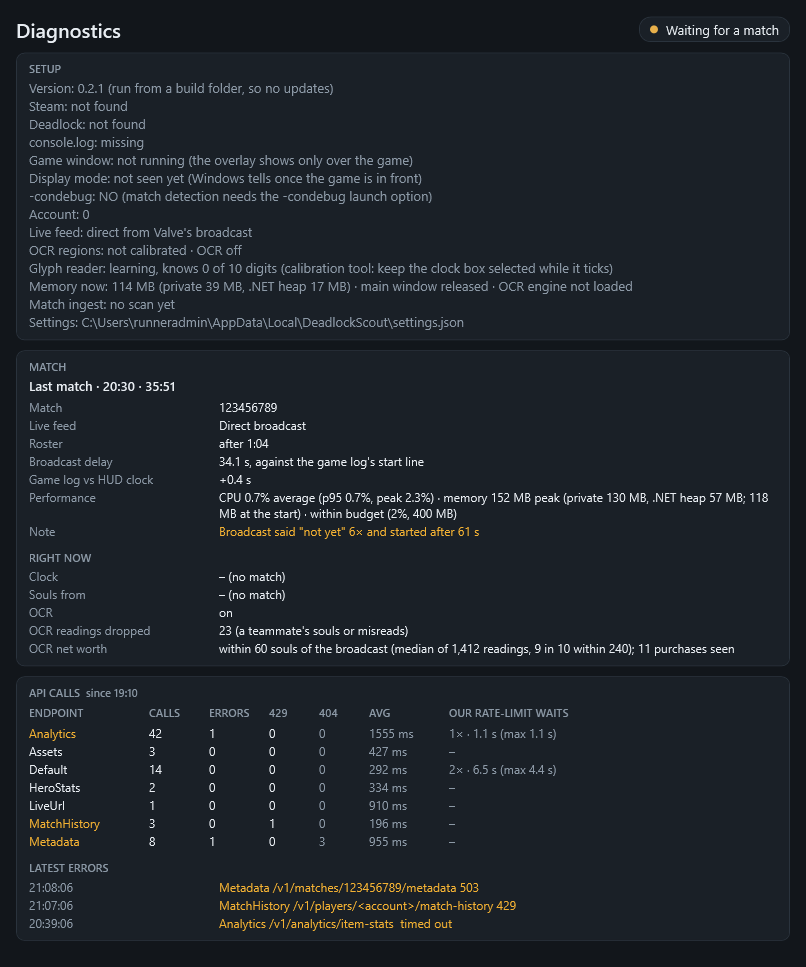
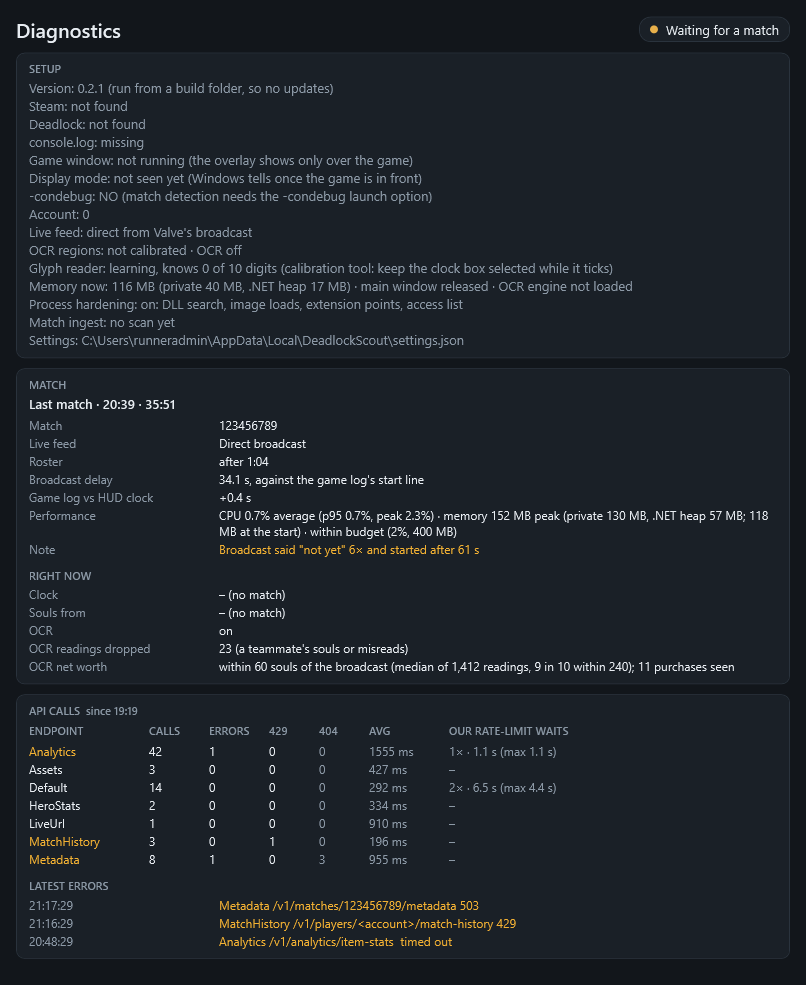
Security: lock the app's own process down; hold the checked update until it runs (#129)
* Security: lock the app's own process down; hold the checked update until it runs

At start-up (App/Interop/ProcessHardening), each step on its own and logged:
- DLLs load from the app's folder and System32 only (SetDefaultDllDirectories);
- image-load policy: no DLLs from network shares or with a low integrity label,
  System32 copies first;
- extension-point policy: no AppInit DLLs, global hooks or Winsock layered
  providers of other programs in the process;
- an access list (Core/Security/ProcessDacl): other unelevated programs may see,
  wait for and end the app, but not read or write its memory, start threads,
  copy handles or change the list (an owner-rights entry takes away the owner's
  implicit WRITE_DAC). The API key in memory is out of their reach.
Diagnostics shows "Process hardening: on: ..."; security.hardenProcess turns it
off from the next start. The screenshot run applies it too, so the Windows
runner shows it holds and the windows still render.

The downloaded update is now hash-checked through a handle that stays open,
shared for reading only, until the installer has started (HeldInstaller), so
no other program can swap the file between the check and the start.

Roadmap line ticked, with per-machine install proposed to stay per-user for 1.0.

Claude-Session: https://claude.ai/code/session_01LSDkBn23Na5vMSKWLtGadZ

* Update app screenshots

* Install stays per-user only: the owner's decision, in the roadmap and the setup script
[…]

diff --git a/src/DeadlockScout.App/Interop/ProcessHardening.cs b/src/DeadlockScout.App/Interop/ProcessHardening.cs
@@ -1,0 +1,105 @@
+using System.Runtime.InteropServices;
+using System.Security.Principal;
+using DeadlockScout.Core.Security;
+using Microsoft.Extensions.Logging;
+
+namespace DeadlockScout.App.Interop;
+
+/// <summary>
+/// Locks the app's own process down at start-up (0.3, "Ready for 1.0"). Nothing here touches the game: it is the app
+/// protecting itself from other programs.
+/// <list type="bullet">
+/// <item>DLLs load from the app's folder and System32 only, never the current folder or PATH;</item>
+/// <item>Windows' image-load policy: no DLLs from network shares or with a low integrity label, and a System32 copy of a
+/// DLL before any other;</item>
+/// <item>no legacy extension points in the process: AppInit DLLs, global window hooks and Winsock layered providers of
+/// other programs are not loaded into it;</item>
+/// <item>the process's access list (<see cref="ProcessDacl"/>): no other program reads or writes its memory or starts a
+/// thread in it.</item>
+/// </list>
+/// Each step stands alone: one that fails is logged and the rest still apply. <c>security.hardenProcess</c> turns all of
+/// it off (from the next start), for a tool that has to attach to the app.
+/// </summary>
+public static class ProcessHardening
+{
+    /// <summary>What was applied, for Diagnostics: "on: DLL search, image loads, extension points, access list".</summary>
+    public static string Status { get; private set; } = "not applied";
+
+    public static void Apply(bool enabled, ILogger log)
+    {
+        if (!OperatingSystem.IsWindows()) { Status = "not on Windows"; return; }
+        if (!enabled) { Status = "off (security.hardenProcess)"; log.LogInformation("Process hardening is off in settings"); return; }
+        var done = new List<string>();
+        var failed = new List<string>();
+        void Step(string name, Func<int> apply)
+        {
+            int error;
+            try { error = apply(); }
+            catch (Exception ex) { error = -1; log.LogWarning(ex, "Process hardening: {Step} threw", name); }
+            if (error == 0) done.Add(name);
+            else { failed.Add(name); log.LogWarning("Process hardening: {Step} could not be applied (error {Error})", name, error); }
+        }
+
+        Step("DLL search", () => SetDefaultDllDirectories(LoadLibrarySearchDefaultDirs) ? 0 : Marshal.GetLastWin32Error());
+        Step("image loads", () =>
+        {
+            var policy = ImageLoadNoRemote | ImageLoadNoLowLabel | ImageLoadPreferSystem32;
+            return SetProcessMitigationPolicy(ProcessImageLoadPolicy, ref policy, sizeof(uint)) ? 0 : Marshal.GetLastWin32Error();
+        });
+        Step("extension points", () =>
+        {
+            uint policy = 1; // DisableExtensionPoints
+            return SetProcessMitigationPolicy(ProcessExtensionPointDisablePolicy, ref policy, sizeof(uint)) ? 0 : Marshal.GetLastWin32Error();
+        });
+        Step("access list", ApplyDacl);
+
+        Status = failed.Count == 0 ? $"on: {string.Join(", ", done)}"
+            : done.Count == 0 ? $"failed: {string.Join(", ", failed)} (see the log)"
+            : $"on: {string.Join(", ", done)}; failed: {string.Join(", ", failed)} (see the log)";
+        log.LogInformation("Process hardening {Status}", Status);
+    }
+
+    private static int ApplyDacl()
+    {
+        string? sid;
+        using (var me = WindowsIdentity.GetCurrent()) sid = me.User?.Value;
+        if (!ConvertStringSecurityDescriptorToSecurityDescriptorW(ProcessDacl.Sddl(sid), SddlRevision1, out var sd, out _))
+            return Marshal.GetLastWin32Error();
+        try
+        {
+            if (!GetSecurityDescriptorDacl(sd, out bool present, out var dacl, out _) || !present) return Marshal.GetLastWin32Error() is var e and not 0 ? e : -2;
+            return (int)SetSecurityInfo(GetCurrentProcess(), SeKernelObject, DaclSecurityInformation | ProtectedDaclSecurityInformation,
+                IntPtr.Zero, IntPtr.Zero, dacl, IntPtr.Zero);
+        }
+        finally { LocalFree(sd); }
+    }
+
+    private const uint LoadLibrarySearchDefaultDirs = 0x0000_1000;
+    private const int ProcessExtensionPointDisablePolicy = 6;
+    private const int ProcessImageLoadPolicy = 10;
+    private const uint ImageLoadNoRemote = 0x1, ImageLoadNoLowLabel = 0x2, ImageLoadPreferSystem32 = 0x4;
+    private const uint SddlRevision1 = 1;
+    private const int SeKernelObject = 6;
+    private const uint DaclSecurityInformation = 0x4, ProtectedDaclSecurityInformation = 0x8000_0000;
+
+    [DllImport("kernel32.dll", SetLastError = true)]
+    private static extern bool SetDefaultDllDirectories(uint directoryFlags);
+
+    [DllImport("kernel32.dll", SetLastError = true)]
+    private static extern bool SetProcessMitigationPolicy(int policy, ref uint buffer, nuint length);
+
+    [DllImport("kernel32.dll")]
+    private static extern IntPtr GetCurrentProcess();
+
+    [DllImport("kernel32.dll")]
+    private static extern IntPtr LocalFree(IntPtr mem);
+
+    [DllImport("advapi32.dll", SetLastError = true, CharSet = CharSet.Unicode)]
+    private static extern bool ConvertStringSecurityDescriptorToSecurityDescriptorW(string sddl, uint revision, out IntPtr descriptor, out uint size);
+
+    [DllImport("advapi32.dll", SetLastError = true)]
+    private static extern bool GetSecurityDescriptorDacl(IntPtr descriptor, out bool present, out IntPtr dacl, out bool defaulted);
+
+    [DllImport("advapi32.dll")]
+    private static extern uint SetSecurityInfo(IntPtr handle, int objectType, uint securityInfo, IntPtr owner, IntPtr group, IntPtr dacl, IntPtr sacl);
+}

diff --git a/src/DeadlockScout.Api/Updates/UpdateClient.cs b/src/DeadlockScout.Api/Updates/UpdateClient.cs
@@ -51,10 +51,12 @@ public sealed class UpdateClient
     }
 
     /// <summary>
-    /// The offered installer saved in <paramref name="folder"/>, or null when it could not be fetched or does not match
-    /// the signed size and SHA-256 (then nothing is left behind). Never reads past the signed size.
+    /// The offered installer saved in <paramref name="folder"/> and held open, or null when it could not be fetched or
+    /// does not match the signed size and SHA-256 (then nothing is left behind). Never reads past the signed size. The
+    /// hash is checked through the same handle that is then kept: until it is disposed (after the installer has
+    /// started) no other program can write, rename or delete the file, so what runs is what was checked.
     /// </summary>
-    public async Task<string?> DownloadAsync(UpdateCheck offer, string folder, CancellationToken ct)
+    public async Task<HeldInstaller?> DownloadAsync(UpdateCheck offer, string folder, CancellationToken ct)
     {
         if (!offer.IsOffer) return null;
         var m = offer.Manifest!;
@@ -70,11 +72,20 @@ public sealed class UpdateClient
                 await using var target = File.Create(partial);
                 if (!await CopyCappedAsync(source, target, m.Size, ct).ConfigureAwait(false)) return null;
             }
-            bool matches;
-            await using (var check = File.OpenRead(partial)) matches = UpdatePolicy.InstallerMatches(m, check);
-            if (!matches) { _log.LogWarning("Update {Version}: the installer does not match the signed hash; discarded", m.Version); return null; }
             File.Move(partial, path, overwrite: true);
-            return path;
+            // Read only, shared for reading only: from here no one can change the file under the check.
+            var held = new FileStream(path, FileMode.Open, FileAccess.Read, FileShare.Read);
+            bool matches;
+            try { matches = UpdatePolicy.InstallerMatches(m, held); }
+            catch { held.Dispose(); File.Delete(path); throw; }
+            if (!matches)
+            {
+                held.Dispose();
+                File.Delete(path);
+                _log.LogWarning("Update {Version}: the installer does not match the signed hash; discarded", m.Version);
+                return null;
+            }
+            return new HeldInstaller(path, held);
         }
         finally
         {
@@ -117,4 +128,20 @@ public sealed class UpdateClient
         }
         return buffer.ToArray();
     }
+}
+
+/// <summary>A checked installer, held open so it cannot change until it has been started; dispose it after starting it.</summary>
+public sealed class HeldInstaller : IDisposable
+{
+    private readonly FileStream _handle;
+
+    public HeldInstaller(string path, FileStream handle)
+    {
+        Path = path;
+        _handle = handle;
+    }
+
+    public string Path { get; }
+
+    public void Dispose() => _handle.Dispose();
 }

diff --git a/src/DeadlockScout.Core/Security/ProcessDacl.cs b/src/DeadlockScout.Core/Security/ProcessDacl.cs
@@ -1,0 +1,49 @@
+namespace DeadlockScout.Core.Security;
+
+/// <summary>
+/// The access list DeadlockScout puts on its own process at start-up: other programs of the same Windows user may see
+/// that it runs, wait for it and end it (Task Manager, the installer), but not read or write its memory, start threads
+/// in it, copy its handles or change this list. That keeps the deadlock-api key in memory, and the app's code, out of
+/// reach of other unelevated programs. The "owner rights" entry matters: without it the process's owner (the user)
+/// could always rewrite the list and then open it for anything. An administrator with the debug privilege still can,
+/// as for every process. Pure, so tested; <c>App/Interop/ProcessHardening</c> applies it.
+/// </summary>
+public static class ProcessDacl
+{
+    public const uint Terminate = 0x0001;
+    public const uint CreateThread = 0x0002;
+    public const uint VmOperation = 0x0008;
+    public const uint VmRead = 0x0010;
+    public const uint VmWrite = 0x0020;
+    public const uint DupHandle = 0x0040;
+    public const uint CreateProcess = 0x0080;
+    public const uint SetQuota = 0x0100;
+    public const uint SetInformation = 0x0200;
+    public const uint QueryInformation = 0x0400;
+    public const uint SuspendResume = 0x0800;
+    public const uint QueryLimitedInformation = 0x1000;
+    public const uint Delete = 0x0001_0000;
+    public const uint ReadControl = 0x0002_0000;
+    public const uint WriteDac = 0x0004_0000;
+    public const uint WriteOwner = 0x0008_0000;
+    public const uint Synchronize = 0x0010_0000;
+
+    /// <summary>What everyone but SYSTEM gets: see it, query it, wait for it, end it.</summary>
+    public const uint Allowed = Terminate | QueryInformation | QueryLimitedInformation | ReadControl | Synchronize;
+
+    /// <summary>What nobody but SYSTEM gets any more.</summary>
+    public const uint Refused = CreateThread | VmOperation | VmRead | VmWrite | DupHandle | CreateProcess | SetQuota | SetInformation
+                                | SuspendResume | Delete | WriteDac | WriteOwner;
+
+    /// <summary>
+    /// The access list as SDDL: protected (nothing inherited), SYSTEM full, and <see cref="Allowed"/> for the owner's
+    /// rights, the administrators and <paramref name="userSid"/> (the account the app runs as).
+    /// </summary>
+    public static string Sddl(string? userSid)
+    {
+        string allowed = $"0x{Allowed:x}";
+        var sddl = $"D:P(A;;GA;;;SY)(A;;{allowed};;;OW)(A;;{allowed};;;BA)";
+        if (!string.IsNullOrWhiteSpace(userSid) && userSid.StartsWith("S-1-", StringComparison.Ordinal)) sddl += $"(A;;{allowed};;;{userSid})";
+        return sddl;
+    }
+}

diff --git a/src/DeadlockScout.App/Services/AppShell.cs b/src/DeadlockScout.App/Services/AppShell.cs
@@ -193,7 +193,7 @@ public sealed class AppShell
         var game = _paths.DeadlockPath ?? "not found";
         var log = _paths.ConsoleLogPath;
         string condebug = _paths.HasCondebug ? "yes" : "NO (match detection needs the -condebug launch option)";
-        _state.Status.Detection = $"Version: {VersionLine()}\nSteam: {steam}\nDeadlock: {game}\nconsole.log: {(log is not null && File.Exists(log) ? "present" : "missing")}\nGame window: {GameWindowStatus()}\nDisplay mode: {(_state.DisplaySeen is { Length: > 0 } seen ? seen : "not seen yet (Windows tells once the game is in front)")}\n-condebug: {condebug}\nAccount: {_paths.AccountId}\nLive feed: {_settings.CurrentValue.Api.LiveSource switch { LiveSource.SelfHosted => "self-hosted at " + _settings.CurrentValue.Api.LiveUrl, LiveSource.Direct => "direct from Valve's broadcast", _ => "hosted (api.deadlock-api.com)" }}\nOCR regions: {OcrRegionSummary()}\nMemory now: {MemoryNow()}\nMatch ingest: {SaltIngest.Summary(_ingest.LastRun)}\nSettings: {_settings.Path}";
+        _state.Status.Detection = $"Version: {VersionLine()}\nSteam: {steam}\nDeadlock: {game}\nconsole.log: {(log is not null && File.Exists(log) ? "present" : "missing")}\nGame window: {GameWindowStatus()}\nDisplay mode: {(_state.DisplaySeen is { Length: > 0 } seen ? seen : "not seen yet (Windows tells once the game is in front)")}\n-condebug: {condebug}\nAccount: {_paths.AccountId}\nLive feed: {_settings.CurrentValue.Api.LiveSource switch { LiveSource.SelfHosted => "self-hosted at " + _settings.CurrentValue.Api.LiveUrl, LiveSource.Direct => "direct from Valve's broadcast", _ => "hosted (api.deadlock-api.com)" }}\nOCR regions: {OcrRegionSummary()}\nMemory now: {MemoryNow()}\nProcess hardening: {Interop.ProcessHardening.Status}\nMatch ingest: {SaltIngest.Summary(_ingest.LastRun)}\nSettings: {_settings.Path}";
         if (_settings.LastError is { } err) _state.Status.Warning = err;
     }
 

diff --git a/tests/DeadlockScout.Tests/Core/ProcessDaclTests.cs b/tests/DeadlockScout.Tests/Core/ProcessDaclTests.cs
@@ -1,0 +1,29 @@
+using DeadlockScout.Core.Security;
+
+namespace DeadlockScout.Tests.Core;
+
+public class ProcessDaclTests
+{
+    [Fact]
+    public void Other_programs_may_see_wait_for_and_end_the_app_but_never_touch_its_memory()
+    {
+        Assert.Equal(0u, ProcessDacl.Allowed & ProcessDacl.Refused);
+        foreach (var right in new[] { ProcessDacl.VmRead, ProcessDacl.VmWrite, ProcessDacl.VmOperation, ProcessDacl.CreateThread,
+                                      ProcessDacl.DupHandle, ProcessDacl.SuspendResume, ProcessDacl.WriteDac, ProcessDacl.WriteOwner })
+            Assert.Equal(0u, ProcessDacl.Allowed & right);
+        foreach (var right in new[] { ProcessDacl.Terminate, ProcessDacl.Synchronize, ProcessDacl.QueryLimitedInformation })
+            Assert.Equal(right, ProcessDacl.Allowed & right);
+    }
+
+    [Fact]
+    public void The_list_is_protected_limits_the_owner_and_names_the_user()
+    {
+        var sddl = ProcessDacl.Sddl("S-1-5-21-1-2-3-1001");
+        Assert.StartsWith("D:P(A;;GA;;;SY)", sddl); // protected, SYSTEM full
+        Assert.Contains("(A;;0x121401;;;OW)", sddl); // owner rights: no implicit WRITE_DAC to undo it
+        Assert.Contains("(A;;0x121401;;;BA)", sddl);
+        Assert.EndsWith("(A;;0x121401;;;S-1-5-21-1-2-3-1001)", sddl);
+        Assert.DoesNotContain("S-1-", ProcessDacl.Sddl(null));
+        Assert.DoesNotContain("evil", ProcessDacl.Sddl(";;;evil)"));
+    }
+}

diff --git a/tests/DeadlockScout.Tests/Api/UpdateClientTests.cs b/tests/DeadlockScout.Tests/Api/UpdateClientTests.cs
@@ -103,12 +103,19 @@ public class UpdateClientTests : IDisposable
         Assert.True(check.IsOffer);
         Assert.Equal("1.0.1", check.Manifest!.Version);
 
-        var path = await client.DownloadAsync(check, _folder, default);
-        Assert.NotNull(path);
-        Assert.Equal(_installer, File.ReadAllBytes(path!));
+        var held = await client.DownloadAsync(check, _folder, default);
+        Assert.NotNull(held);
+        Assert.Equal(_installer, File.ReadAllBytes(held!.Path)); // others may still read it
+        if (OperatingSystem.IsWindows())
+        {
+            // Until it is let go, nobody can change what was checked.
+            Assert.ThrowsAny<IOException>(() => File.WriteAllBytes(held.Path, new byte[] { 1, 2, 3 }));
+            Assert.ThrowsAny<IOException>(() => File.Move(held.Path, held.Path + ".moved"));
+        }
+        held.Dispose();
 
         // The file on GitHub swapped after signing: same name and size, other bytes.
-        File.Delete(path!);
+        File.Delete(held.Path);
         _routes[Base + "DeadlockScout-Setup-1.0.1.exe"] = () => Ok(Encoding.UTF8.GetBytes("pretend this is an INSTALLER"));
         Assert.Null(await client.DownloadAsync(check, _folder, default));
         Assert.Empty(Directory.GetFiles(_folder)); // nothing left behind, not even the partial file

diff --git a/src/DeadlockScout.App/Program.cs b/src/DeadlockScout.App/Program.cs
@@ -88,6 +88,9 @@ public static class Program
                 .AddProvider(new DeadlockScout.Steam.Logging.FileLoggerProvider(LogFolder)))
             .ConfigureServices(services => ConfigureServices(services))
             .Build();
+        // Before anything else loads: the app's own process, locked down (DLL search, image loads, access list).
+        ProcessHardening.Apply(host.Services.GetRequiredService<JsonSettingsMonitor>().CurrentValue.Security.HardenProcess,
+            host.Services.GetRequiredService<ILoggerFactory>().CreateLogger("DeadlockScout.Hardening"));
 
         var app = new App();
         app.InitializeComponent();
@@ -207,6 +210,9 @@ public static class Program
             .ConfigureLogging(l => l.ClearProviders())
             .ConfigureServices(services => ConfigureServices(services))
             .Build();
+        // The same lock-down as a real start, so the Windows runner shows it holds (Diagnostics' "Process hardening" line)
+        // and that the windows still render under it.
+        ProcessHardening.Apply(true, Microsoft.Extensions.Logging.Abstractions.NullLogger.Instance);
         int exit = 1;
         using var watchdog = new System.Threading.Timer(_ => Environment.Exit(2), null, TimeSpan.FromMinutes(2), Timeout.InfiniteTimeSpan);
         var app = new App();

diff --git a/src/DeadlockScout.Core/Settings/ScoutSettings.cs b/src/DeadlockScout.Core/Settings/ScoutSettings.cs
@@ -35,6 +35,7 @@ public sealed record ScoutSettings
     public CampTimerSettings Camps { get; init; } = new();
     public AudioSettings Audio { get; init; } = new();
     public UpdateSettings Updates { get; init; } = new();
+    public SecuritySettings Security { get; init; } = new();
     public CoachingSettings Coaching { get; init; } = new();
 
     /// <summary>
@@ -447,6 +448,17 @@ public sealed record UpdateSettings
     public bool Check { get; init; } = true;
     /// <summary>The version that ran last, for the one "what's new" notice after an update (<see cref="Updates.WhatsNew"/>).</summary>
     public string? LastRunVersion { get; init; }
+}
+
+/// <summary>How the app protects its own process (never the game's).</summary>
+public sealed record SecuritySettings
+{
+    /// <summary>
+    /// At start-up: DLLs only from the app's folder and System32, Windows' image-load and extension-point mitigations,
+    /// and an access list that keeps other programs out of the process's memory. Off only for a tool that must attach
+    /// (a debugger, a profiler); takes effect from the next start.
+    /// </summary>
+    public bool HardenProcess { get; init; } = true;
 }
 
 /// <summary>The coaching lines shown during a match.</summary>

diff --git a/src/DeadlockScout.App/Services/UpdateService.cs b/src/DeadlockScout.App/Services/UpdateService.cs
@@ -135,10 +135,11 @@ public sealed class UpdateService : BackgroundService
     public async Task<bool> InstallAsync(CancellationToken ct)
     {
         if (_gate.IsMatchLive || Offer is not { IsOffer: true } offer) return false;
-        var path = await _client.DownloadAsync(offer, DownloadFolder, ct).ConfigureAwait(false);
-        if (path is null) return false;
+        using var installer = await _client.DownloadAsync(offer, DownloadFolder, ct).ConfigureAwait(false);
+        if (installer is null) return false;
         _log.LogInformation("Installing update {Version}", offer.Manifest!.Version);
-        Process.Start(new ProcessStartInfo(path, "/VERYSILENT /SUPPRESSMSGBOXES /NORESTART /RELAUNCH") { UseShellExecute = false });
+        // Still held from its hash check: Windows maps it for the new process, and only then is it let go.
+        Process.Start(new ProcessStartInfo(installer.Path, "/VERYSILENT /SUPPRESSMSGBOXES /NORESTART /RELAUNCH") { UseShellExecute = false });
         return true;
     }
 }

diff --git a/CLAUDE.md b/CLAUDE.md
@@ -9,11 +9,11 @@ A local Windows tray app (C#, .NET 10, WPF) that detects your Deadlock match fro
 4. Never commit real logs, account ids, API keys or cache databases. Fixtures under `tests/DeadlockScout.Tests/Fixtures` are synthetic or scrubbed.
 
 ## Layout
-- `src/DeadlockScout.Core` contracts (`Abstractions/`), records (`Models/`), and pure logic: `SoulRateMeter`, `PaceMath`, `CurveBuilder`, `CompositeBenchmark`, `CompositeMatchDetector`, `ScoutingService`/`ScoutRules`, `ScoutSettings`, `CacheKeys`. No I/O, no HttpClient, no WPF.
+- `src/DeadlockScout.Core` contracts (`Abstractions/`), records (`Models/`), and pure logic (`Security/ProcessDacl` is the access list the app puts on its own process): `SoulRateMeter`, `PaceMath`, `CurveBuilder`, `CompositeBenchmark`, `CompositeMatchDetector`, `ScoutingService`/`ScoutRules`, `ScoutSettings`, `CacheKeys`. No I/O, no HttpClient, no WPF.
 - `src/DeadlockScout.Steam` local adapters: `ConsoleLogTailer` (primary match signal), `SteamContentLogWatcher` (fallback), `SteamLocator` (registry, loginusers.vdf, libraryfolders.vdf), `LaunchOptions` (-condebug), `VdfParser`, `SteamHttpCache`, and `Logging/FileLoggerProvider` (the app's daily log file under `%LOCALAPPDATA%\DeadlockScout\logs`).
 - `src/DeadlockScout.Api` the only project with an `HttpClient`: `DeadlockApiClient`, rate limiting and retry handlers, two-layer cache (memory + SQLite), live feed (`DirectBroadcastStream` reading Valve's broadcast relay with DemoFile by default, `HostedLiveQueryStream` over api.deadlock-api.com, `SseLiveEventStream` for the self-hosted live-events container, chosen by `LiveEventStreamSelector`, which falls back from Direct to Hosted on a parse failure), benchmark providers.
 - `src/DeadlockScout.Ocr` the OCR seam (`IRegionCapture`, `IHudRegionMap`, `IOcrEngine`, `OcrSoulSource`), `OcrPreprocess` (grayscale, contrast, dark-on-light, enlarge, pad) `RegionCalibration` with `CalibrationCheck`, the calibration tool's model and its live verdict on each box, and the glyph reader (`GlyphSegmenter`, `GlyphSet`, `GlyphOcrEngine`, in front of Windows OCR; templates in `glyphs.json`, local app data). Regions are fractions of the game's client area; only those rectangles are ever captured, and only while OCR is switched on.
-- `src/DeadlockScout.App` the WPF tray app, overlay window and panels, DI wiring, `Services/AppShell` (what the tray, hotkeys and main window's buttons do; the double-tap hide is read in `Overlay/OverlayWindow`, timed by `Core/Input/DoubleTap`; it builds the main window on demand and releases it when it is closed to the tray), `Services/DemoLobby`, `Calibration/CalibrationWindow` (the OCR region tool), `ScreenRegionCapture` (GDI BitBlt of one region; our windows set WDA_EXCLUDEFROMCAPTURE so they never appear in it) and `WindowsMediaOcrEngine`. The app targets `net10.0-windows10.0.19041.0` (Windows 10 2004) for Windows.Media.Ocr.
+- `src/DeadlockScout.App` the WPF tray app, overlay window and panels, DI wiring, `Services/AppShell` (what the tray, hotkeys and main window's buttons do; the double-tap hide is read in `Overlay/OverlayWindow`, timed by `Core/Input/DoubleTap`; it builds the main window on demand and releases it when it is closed to the tray), `Services/DemoLobby`, `Calibration/CalibrationWindow` (the OCR region tool), `ScreenRegionCapture` (GDI BitBlt of one region; our windows set WDA_EXCLUDEFROMCAPTURE so they never appear in it), `WindowsMediaOcrEngine` and `Interop/ProcessHardening` (locks the app's own process down at start-up: DLL search, image-load and extension-point policies, the access list). The app targets `net10.0-windows10.0.19041.0` (Windows 10 2004) for Windows.Media.Ocr.
 - `third_party/demofile-net` vendored, patched DemoFile (MIT) used by the Direct feed. Don't edit it casually: every local change is listed in its `VENDORED.md` and kept as a patch file there.
 - `tests/DeadlockScout.Tests` xunit; runs on Linux and Windows.
 - `tools/DeadlockScout.ReplayCheck` runs a replay through the Direct feed's snapshot code (`BroadcastSnapshotter`) and prints roster, net worth by minute, every objective change (mid boss, Rejuvenators, urn), the jungle's spawns in the first 15 minutes (for the laning timers) and a clock check. Use it after a game patch to see whether DemoFile still decodes the game. Replays are gitignored: they hold every player's name and account id.

diff --git a/docs/roadmap.md b/docs/roadmap.md
@@ -228,11 +228,18 @@ Small conveniences:
 
 Ready for 1.0:
 
-- [ ] Process hardening (moved here from M11, where the owner shelved it on Nov 1): at start-up, Windows' image-load
+- [x] Process hardening (moved here from M11, where the owner shelved it on Nov 1): at start-up, Windows' image-load
   and extension-point mitigations (system DLLs from System32 first, no DLLs from network shares or low-integrity
   files, no AppInit DLLs, global hooks or Winsock layered providers in our process); a process DACL that refuses
   other processes' memory writes and remote threads; the downloaded update held open, unwritable, from its hash check
   until the installer has started. Decide then whether to offer a per-machine install under Program Files.
+  *Nov 3: `App/Interop/ProcessHardening` at start-up (DLL search limited to the app folder and System32 too), each
+  step on its own and logged, Diagnostics' "Process hardening" line, `security.hardenProcess` to turn it off; the
+  access list (`Core/Security/ProcessDacl`) also refuses memory reads, so the API key in memory is out of other
+  programs' reach. The screenshot run applies it as well, so the Windows runner shows it holds and the windows still
+  render. Per-machine install: decided by the owner on Nov 3, per-user only, never a system install (no
+  administrator prompt for installs or updates; what Program Files would guard against, another program running as
+  you replacing the app's files, could just as well change your shortcuts or startup entries).*
 - [ ] A dry run of 1.0's gate on a fresh Windows install (a virtual machine is enough): install, first-run wizard,
   one match, update to a later build. Whatever it finds is fixed here, so M11 is only the release.
 

diff --git a/docs/architecture-seed.md b/docs/architecture-seed.md
@@ -344,6 +344,7 @@ Each milestone ends with its gate checked on a real match, not a fixture. M3 is 
 | Protected / private players | Missing stats for some accounts | Analytics endpoints already drop protected users; show "private" instead of 0 |
 | Borderless windowed requirement | Overlay invisible in fullscreen | First-run check reads the game's video settings and warns |
 | Fairness and ToS | Community norms | Only public data from the delayed broadcast and files the game writes; no voice, no live chat scraping |
+| Another program on the PC reading the app's memory (the API key) or loading code into it | Key stolen, the app made to misbehave | At start-up (`App/Interop/ProcessHardening`, 0.3) the app locks down its own process, never the game's: DLLs only from its folder and System32, Windows' image-load policy (no DLLs from network shares or with a low integrity label, System32 copies first) and extension-point policy (no AppInit DLLs, global hooks or Winsock layered providers of other programs), and an access list (`Core/Security/ProcessDacl`) that lets other unelevated programs see, wait for and end the process but not read or write its memory, start threads in it or change the list (the owner-rights entry takes away the owner's implicit right to rewrite it). A downloaded update is checked and then held open, readable only, until the installer has started. `security.hardenProcess` turns the start-up part off for a tool that must attach. Diagnostics shows what applied. |
 
 ## Configuration
 
